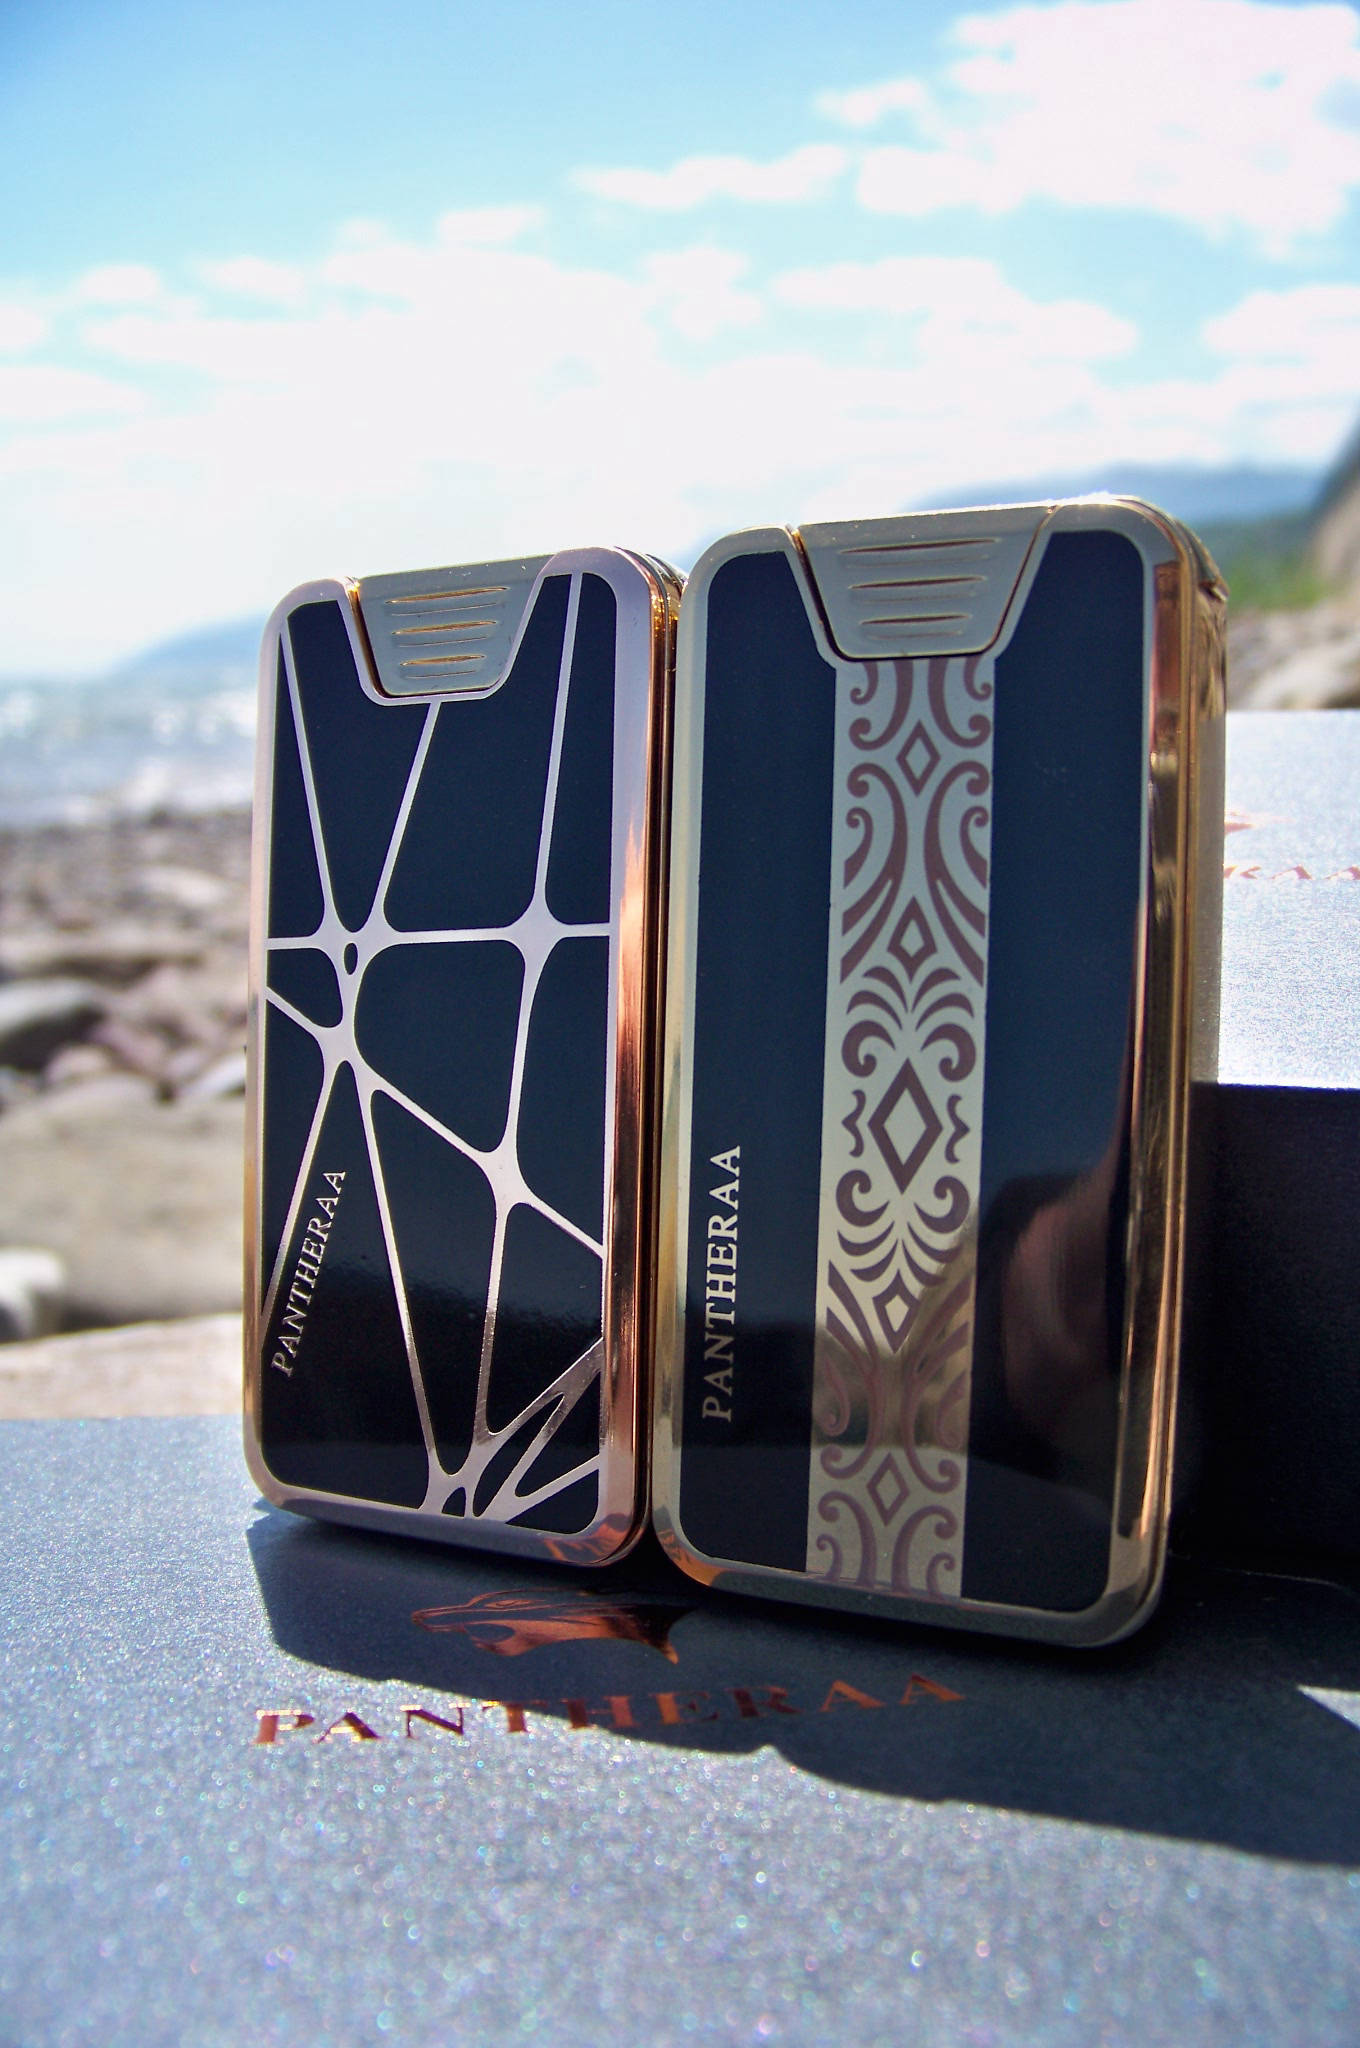
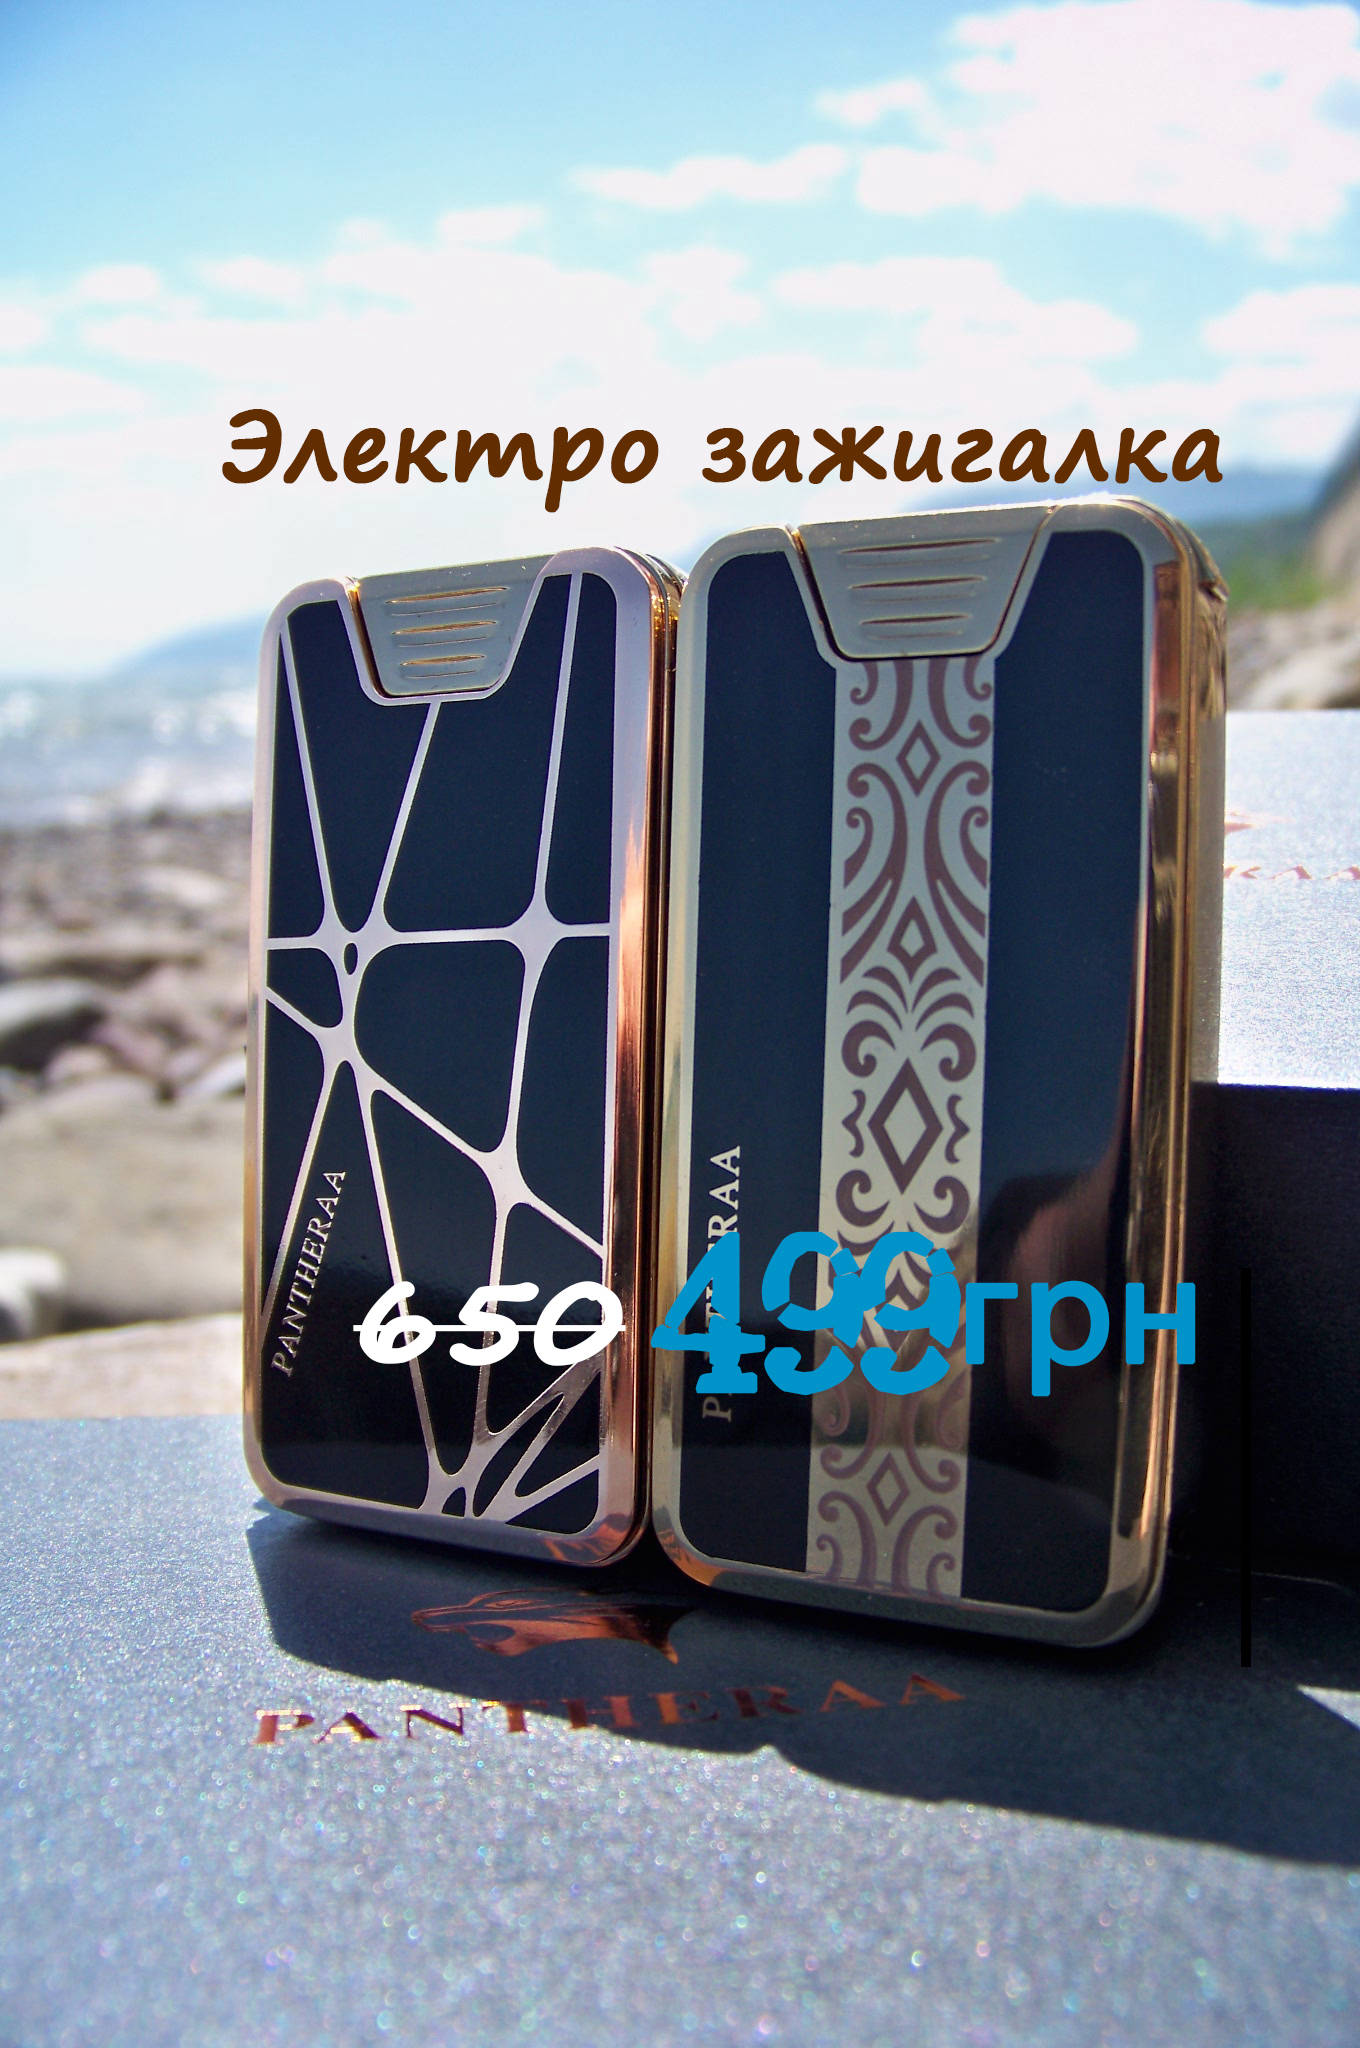
create github pages

Changed region(s): [[0.2471, 0.5938, 0.8956, 0.6875], [0.525, 0.1875, 0.8956, 0.25], [0.1544, 0.1875, 0.4941, 0.25]]

diff --git a/index.html b/index.html
@@ -56,7 +56,7 @@
     </nav>
 </section>
 
-<section class="engine"><a href="https://mobiri.se/r">free bootstrap templates</a></section><section class="cid-qTkA127IK8 mbr-fullscreen mbr-parallax-background" id="header2-1">
+<section class="engine"><a href="https://mobiri.se/h">how to create your own web page for free</a></section><section class="cid-qTkA127IK8 mbr-fullscreen mbr-parallax-background" id="header2-1">
 
     
 
@@ -65,9 +65,9 @@
     <div class="container align-center">
         <div class="row justify-content-md-center">
             <div class="mbr-white col-md-10">
-                <h1 class="mbr-section-title mbr-bold pb-3 mbr-fonts-style display-1">Электро зажигалка</h1>
-                <h3 class="mbr-section-subtitle align-center mbr-light pb-3 mbr-fonts-style display-2"><em>Старая цена </em>650<em> грн</em></h3>
-                <p class="mbr-text pb-3 mbr-fonts-style display-1"><strong>цена со скидкой &nbsp; &nbsp;</strong><br><strong>499 грн</strong></p>
+                
+                
+                
                 <div class="mbr-section-btn"><a class="btn btn-md btn-secondary display-4" href="index.html#form4-4">ЗАКАЗАТЬ СО СКИДКОЙ</a></div>
             </div>
         </div>
@@ -443,7 +443,7 @@
                 </div>
                 <div data-form-type="formoid">
                     <div data-form-alert="" hidden="">Спасибо за заполнение заявки! Мы вам перезвоним.</div>
[2 lines of base64/hex data omitted]
                         <div class="row">
                             <div class="col-md-6 multi-horizontal" data-for="name">
                                 <input type="text" class="form-control input" name="name" data-form-field="Name" placeholder="Имя" required="" id="name-form4-4">

diff --git a/page2.html b/page2.html
@@ -56,7 +56,7 @@
     </nav>
 </section>
 
-<section class="engine"><a href="https://mobiri.se/q">responsive website templates</a></section><section class="cid-qZmVZs3rji mbr-fullscreen mbr-parallax-background" id="header2-18">
+<section class="engine"><a href="https://mobiri.se/i">free web creation software</a></section><section class="cid-qZmVZs3rji mbr-fullscreen mbr-parallax-background" id="header2-18">
 
     
 
@@ -443,7 +443,7 @@
                 </div>
                 <div data-form-type="formoid">
                     <div data-form-alert="" hidden="">Спасибо за заполнение заявки! Мы вам перезвоним.</div>
[2 lines of base64/hex data omitted]
                         <div class="row">
                             <div class="col-md-6 multi-horizontal" data-for="name">
                                 <input type="text" class="form-control input" name="name" data-form-field="Name" placeholder="Имя" required="" id="name-form4-1k">

diff --git a/assets/mobirise/css/mbr-additional.css b/assets/mobirise/css/mbr-additional.css
@@ -2714,7 +2714,7 @@ body {
   color: #c1c1c1 !important;
 }
 .cid-qZmVZs3rji {
-  background-image: url("../../../assets/images/100-9889-1360x2048.jpg");
+  background-image: url("../../../assets/images/100-9889-1360x20480.jpg");
 }
 .cid-qZmVZs3rji H1 {
   text-align: left;
